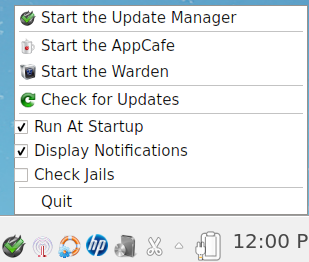
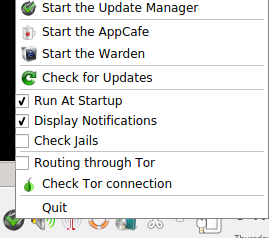
Add placeholders for Tor Mode.

diff --git a/docs/update.rst b/docs/update.rst
@@ -252,8 +252,10 @@ know the name of a command, you can also use the built-in help system to get mor
 Update Manager
 ==============
 
-Update Manager provides a graphical interface for keeping the PC-BSD® operating system and its installed applications up-to-date. This utility can be started
-from :ref:`Control Panel` or by typing :command:`pc-updategui`. It can also be accessed from its icon in the system tray, if you are logged into a desktop
+Update Manager provides a graphical interface for keeping the PC-BSD® operating system and its installed applications up-to-date. Update Manager will automatically track
+updates to software installed using either the graphical or command line equivalents of :ref:`AppCafe®` and :ref:`Warden®`.
+
+This utility can be started from :ref:`Control Panel` or by typing :command:`pc-updategui`. It can also be accessed from its icon in the system tray, if you are logged into a desktop
 that provides a system tray.
 
 The status of the icon lets you determine at a glance if any of your installed applications are out-of-date, if a system update is available, or if a new
@@ -287,18 +289,34 @@ The system is currently updating.
 
 The system needs to restart in order for the newly installed update to take effect.
 
-If you right-click the icon, you will see the menu shown in Figure 7.3a. As seen in the menu, Update Manager will automatically track updates to software
-installed using either the graphical or command line equivalents of :ref:`AppCafe®` and :ref:`Warden®`.
+If you right-click the icon, you will see the menu shown in Figure 7.3a. 
 
 **Figure 7.3a: Right-click Menu for Update Manager** 
 
 .. image:: images/update8.png
 
-By default, updates are checked every 24 hours or 20 minutes after booting the system. However, the system won't check for updates more than once per day
-should you reboot multiple times within a day. You can check for updates now by selecting "Check for Updates". To disable the update check when the system
-boots, uncheck the "Run at Startup" box. To disable the pop-up message over the icon when an update becomes available, uncheck the "Display Notifications"
-box. To also be notified when updates are available to running jails, check the "Check Jails" box. To remove Update Manager from the system tray, click
-"Quit". You can put the icon back into the tray by typing :command:`pc-systemupdatertray &`.
+This menu contains the following options:
+
+* **Start the Update Manager:** launches the Update Manager GUI which can be used as described in :ref:`Manual Updates (GUI Method)`.
+
+* **Start the AppCafe:** launches AppCafe® which can be used to manage installed software as described in :ref:`AppCafe®`.
+
+* **Start the Warden:** launches Warden® which can be used to manage jails as described in :ref:`Warden®`.
+
+* **Check for Updates:** by default, updates are checked every 24 hours or 20 minutes after booting the system. However, the system won't check for updates more than once per day
+  should you reboot multiple times within a day. You can check for updates now by clicking this option.
+
+* **Run at Startup:** to disable the automatic update check after the system boots, uncheck this box.
+
+* **Display Notifications:** to disable the pop-up message over the icon when an update becomes available, uncheck this box.
+
+* **Check Jails:** to also be notified when updates are available to running jails, check this box.
+
+* **Routing through Tor:** check this box to start browsing the Internet anonymously as described in :`Tor Mode`.
+
+* **Check Tor connection:**
+
+* **Quit:** to remove Update Manager from the system tray, click this entry. You can put the icon back into the tray by typing :command:`pc-systemupdatertray &`.
 
 .. index:: updates
 .. _How PC-BSD® Updating Works:

diff --git a/docs/introduction.rst b/docs/introduction.rst
@@ -185,6 +185,9 @@ The following features or enhancements were introduced for PC-BSD® 10.1.2:
 * The ability to log into a "stealth session" has been added. A stealth session creates an encrypted zvol as a temporary home directory for that login session.
   When the user logs out of a stealth session, the zvol is destroyed, along with the contents of the temporary home directory. 
 
+* :ref:`Tor Mode` has been added, making it possible to anonymously access Internet sites as this mode automatically forwards all Internet traffic through the
+  `Tor Project's <https://www.torproject.org/>`_ transparent proxy service.
+
 * :ref:`Kodi` and :ref:`PlexHome Theater` can be installed from the MediaCenter category of the :ref:`System Selection Screen` of the installer.
 
 * The options in the :ref:`Advanced Mode` screen of the installer have been streamlined.

diff --git a/docs/using.rst b/docs/using.rst
@@ -803,6 +803,12 @@ information about security on FreeBSD-based operating systems:
 
 * `Hardening FreeBSD <http://www.bsdguides.org/2005/hardening-freebsd/>`_
 
+.. index:: security
+.. _Tor Mode:
+
+Tor Mode
+--------
+
 .. index:: accessibility
 .. _Accessibility:
 
